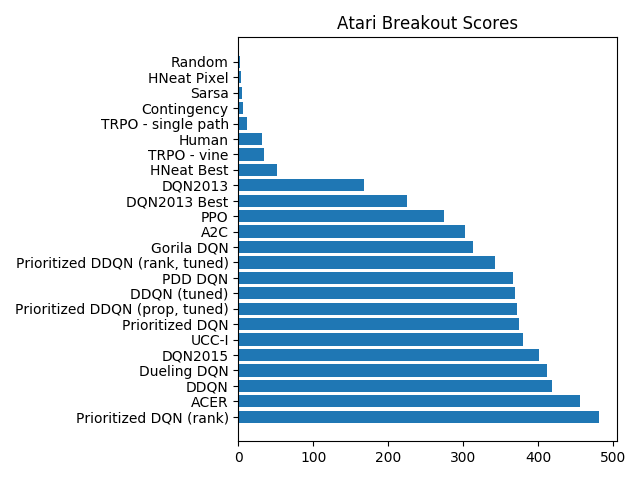
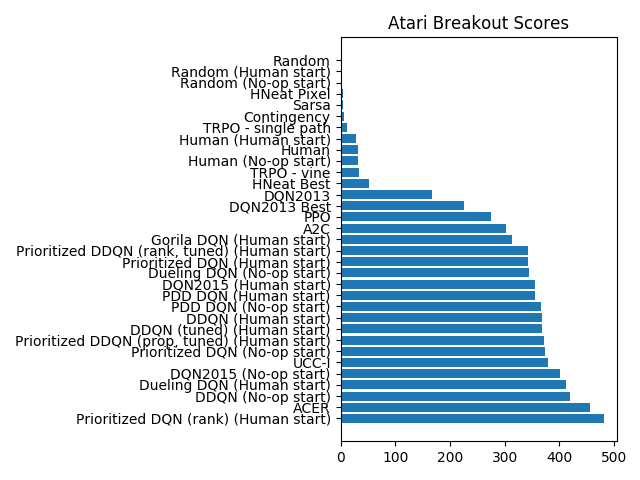
Improve barplot script (#15)
* Check for duplicates in barplot

* Check env variant for bar plots

* Fix bug in example_plot

diff --git a/example_plot.py b/example_plot.py
@@ -6,23 +6,46 @@ import rldb
 def env_barplot(env_title, plot_title):
     # Get relevant entries
     entries = rldb.get_all_entries()
-    breakout_entries = [e for e in entries if e['env-title'] == env_title]
+    entries = [e for e in entries if e['env-title'] == env_title]
 
-    # Sort entries by score, increasing
-    breakout_entries = sorted(
-        breakout_entries,
+    # Dedupe and sort entries by score, increasing
+    sorted_entries = sorted(
+        entries,
         key=lambda entry: entry['score'],
         reverse=True
     )
+    deduped_entries = remove_duplicates(sorted_entries)
 
     # Draw bar plot
-    labels = [entry['algo-nickname'] for entry in breakout_entries]
-    scores = [entry['score'] for entry in breakout_entries]
+    labels = ['{} ({})'.format(entry['algo-nickname'], entry['env-variant']) if 'env-variant' in entry else entry['algo-nickname'] for entry in deduped_entries]
+    scores = [entry['score'] for entry in deduped_entries]
     plt.barh(labels, scores)
     plt.title(plot_title)
     plt.tight_layout()
     plt.savefig('docs/{}.png'.format(env_title))
     plt.show()
+
+
+def remove_duplicates(entries):
+    duplicate_indices = []
+    for i, entry in enumerate(entries):
+        if i == len(entries) - 1:
+            break
+        next_entry = entries[i + 1]
+
+        if entry['algo-nickname'] == next_entry['algo-nickname'] and ('env-variant' in entry and 'env-variant' in next_entry and entry['env-variant'] == next_entry['env-variant']):
+            if entry['score'] == next_entry['score']:
+                duplicate_indices.append(i + 1)
+            else:
+                print('[WARN] Algorithm {} have different scores ({}, {}) from source ({}, {}) in env {}. Consider renaming them.'.format(
+                    entry['algo-nickname'],
+                    entry['score'], next_entry['score'],
+                    entry['source-nickname'], next_entry['source-nickname'],
+                    '{} ({})'.format(entry['env-title'], entry['env-variant']) if 'env-variant' in entry else entry['env-title'],
+                ))
+
+    deduped_entries = [entry for i, entry in enumerate(entries) if i not in duplicate_indices]
+    return deduped_entries
 
 
 def main():
